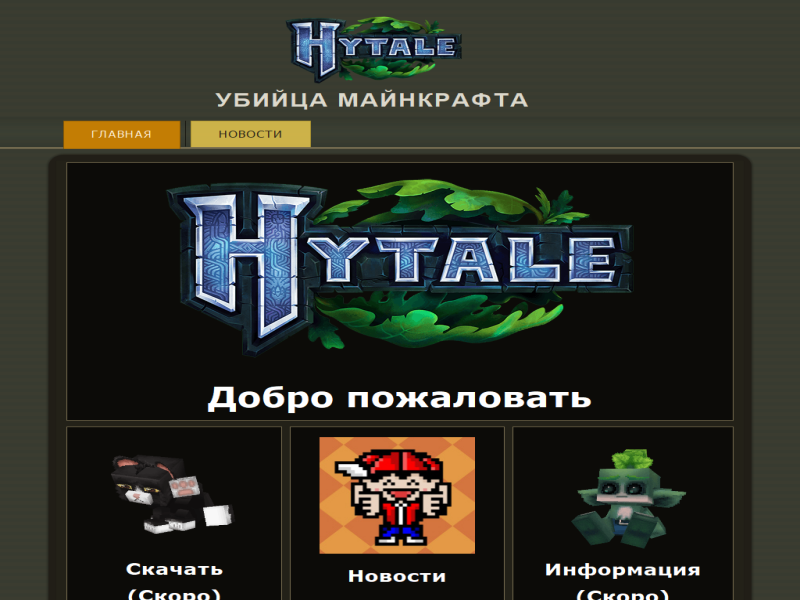
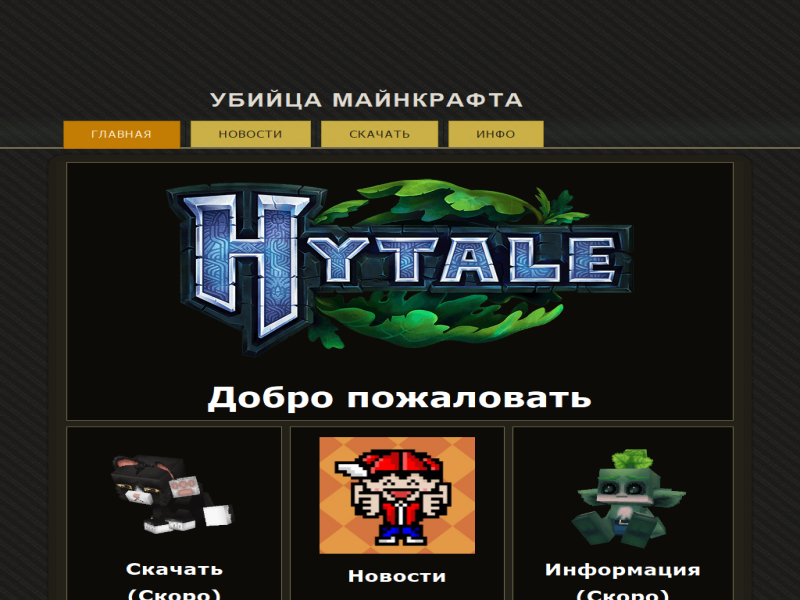
Обновление сайта

Changed region(s): [[0.0, 0.0, 1.0, 1.0]]

diff --git a/info.html b/info.html
@@ -1,0 +1,66 @@
+<!DOCTYPE html>
+<html dir="ltr" lang="en-US"><head><!-- Created by Artisteer v4.3.0.60858 -->
+    <meta charset="utf-8">
+    <title>инфо</title>
+    <meta name="viewport" content="initial-scale = 1.0, maximum-scale = 1.0, user-scalable = no, width = device-width">
+
+    <!--[if lt IE 9]><script src="https://html5shiv.googlecode.com/svn/trunk/html5.js"></script><![endif]-->
+    <link rel="stylesheet" href="style.css" media="screen">
+    <!--[if lte IE 7]><link rel="stylesheet" href="style.ie7.css" media="screen" /><![endif]-->
+    <link rel="stylesheet" href="style.responsive.css" media="all">
+
+
+    <script src="jquery.js"></script>
+    <script src="script.js"></script>
+    <script src="script.responsive.js"></script>
+
+
+</head>
+<body>
+<div id="art-main">
+<header class="art-header">
+
+    <div class="art-shapes">
+        <div class="art-object2016862673"></div>
+<div class="art-object777328212"></div>
+
+            </div>
+
+<h1 class="art-headline">
+    <a href="/">Убийца майнкрафта</a>
+</h1>
+
+
+
+
+
+                        
+                    
+</header>
+<nav class="art-nav">
+    <div class="art-nav-inner">
+    <ul class="art-hmenu"><li><a href="index.html" class="">Главная</a></li><li><a href="news.html" class="">Новости</a></li><li><a href="down.html" class="">Скачать</a></li><li><a href="info.html" class="active">Инфо</a></li></ul> 
+        </div>
+    </nav>
+<div class="art-sheet clearfix">
+            <div class="art-layout-wrapper">
+                <div class="art-content-layout">
+                    <div class="art-content-layout-row">
+                        <div class="art-layout-cell art-content"><article class="art-post art-article">
+                                
+                                                
+                <div class="art-postcontent art-postcontent-0 clearfix"><p><br></p></div>
+
+
+</article></div>
+                    </div>
+                </div>
+            </div><footer class="art-footer">
+<p>Copyright © 2019. All Rights Reserved.<br></p>
+</footer>
+
+    </div>
+</div>
+
+
+</body></html>

diff --git a/down.html b/down.html
@@ -1,0 +1,66 @@
+<!DOCTYPE html>
+<html dir="ltr" lang="en-US"><head><!-- Created by Artisteer v4.3.0.60858 -->
+    <meta charset="utf-8">
+    <title>Скачать</title>
+    <meta name="viewport" content="initial-scale = 1.0, maximum-scale = 1.0, user-scalable = no, width = device-width">
+
+    <!--[if lt IE 9]><script src="https://html5shiv.googlecode.com/svn/trunk/html5.js"></script><![endif]-->
+    <link rel="stylesheet" href="style.css" media="screen">
+    <!--[if lte IE 7]><link rel="stylesheet" href="style.ie7.css" media="screen" /><![endif]-->
+    <link rel="stylesheet" href="style.responsive.css" media="all">
+
+
+    <script src="jquery.js"></script>
+    <script src="script.js"></script>
+    <script src="script.responsive.js"></script>
+
+
+</head>
+<body>
+<div id="art-main">
+<header class="art-header">
+
+    <div class="art-shapes">
+        <div class="art-object2016862673"></div>
+<div class="art-object777328212"></div>
+
+            </div>
+
+<h1 class="art-headline">
+    <a href="/">Убийца майнкрафта</a>
+</h1>
+
+
+
+
+
+                        
+                    
+</header>
+<nav class="art-nav">
+    <div class="art-nav-inner">
+    <ul class="art-hmenu"><li><a href="index.html" class="">Главная</a></li><li><a href="news.html" class="">Новости</a></li><li><a href="down.html" class="active">Скачать</a></li><li><a href="info.html">Инфо</a></li></ul> 
+        </div>
+    </nav>
+<div class="art-sheet clearfix">
+            <div class="art-layout-wrapper">
+                <div class="art-content-layout">
+                    <div class="art-content-layout-row">
+                        <div class="art-layout-cell art-content"><article class="art-post art-article">
+                                
+                                                
+                <div class="art-postcontent art-postcontent-0 clearfix"><p><br></p></div>
+
+
+</article></div>
+                    </div>
+                </div>
+            </div><footer class="art-footer">
+<p>Copyright © 2019. All Rights Reserved.<br></p>
+</footer>
+
+    </div>
+</div>
+
+
+</body></html>

diff --git a/style.css b/style.css
@@ -2,7 +2,7 @@
 
 #art-main
 {
-   background: #323A31 url('images/page.png') fixed;
+   background: #1C1C1C url('images/page.png') fixed;
    margin:0 auto;
    font-size: 13px;
    font-family: Tahoma, Arial, Helvetica, Sans-Serif;
@@ -408,7 +408,25 @@ li p, .art-postcontent li p, .art-blockcontent li p
    margin-right: 0 !important;
 }
 
-.art-object777328212
+.art-object2016862673
+{
+    display: block;
+    left: 0%;
+    margin-left: -90px;
+    position: absolute;
+    top: -76px;
+    width: 1081px;
+    height: 353px;
+    background-image: url('images/object2016862673.png');
+    background-position: 0 0;
+    background-repeat: no-repeat;
+    z-index: 2;
+}
+
+.default-responsive .art-object2016862673
+{
+  display: none;
+}.art-object777328212
 {
     display: block;
     left: 45.25%;
@@ -420,7 +438,7 @@ li p, .art-postcontent li p, .art-blockcontent li p
     background-image: url('images/object777328212.png');
     background-position: 0 0;
     background-repeat: no-repeat;
-    z-index: 2;
+    z-index: 3;
 }
 
 .default-responsive .art-object777328212
@@ -459,7 +477,7 @@ text-transform: uppercase;
 text-align: left;
   padding: 0;
   margin: 0;
-  color: #DCD8CB !important;
+  color: #E0DCD1 !important;
   white-space: nowrap;
 }
 
@@ -698,7 +716,7 @@ ul.art-hmenu>li>a:hover, .desktop ul.art-hmenu>li:hover>a
 }
 ul.art-hmenu>li>a:hover, 
 .desktop ul.art-hmenu>li:hover>a {
-   color: #F1EFEA;
+   color: #EDEAE3;
    text-decoration: none;
 }
 ul.art-hmenu>li>a.active:hover {
@@ -2702,7 +2720,7 @@ blockquote p,
    font-style: normal;
    font-weight: normal;
    text-decoration: underline;
-   color: #FCCC78;
+   color: #FCC464;
 }
 
 .art-page-footer
@@ -2712,7 +2730,7 @@ blockquote p,
    padding: 1em;
    text-align: center !important;
    text-decoration: none;
-   color: #C8C1AC;
+   color: #C0B7A0;
 }
 
 .art-lightbox-wrapper 

diff --git a/script.js b/script.js
@@ -1244,6 +1244,22 @@ if (typeof window.resizeData === 'undefined') window.resizeData = {};
 window.resizeData.headerPageWidth = true;
 if (typeof window.defaultResponsiveData === 'undefined') window.defaultResponsiveData = [false, true, true, true, true, ];
 
+resizeData['object2016862673'] = {
+   responsive: [
+                  { left: -0.08, top: -0.22, visible: true }, 
+                  { left: -0.08, top: -0.22, visible: true }, 
+                  { left: -0.08, top: -0.22, visible: true }, 
+                  { left: -0.08, top: -0.22, visible: true }, 
+                  { left: -0.08, top: -0.22, visible: true }, 
+               ],
+   area: {
+       x: 0,
+       y: 0
+   },
+   width: 1081,
+   height: 353,
+   autoWidth: false};
+
 resizeData['object777328212'] = {
    responsive: [
                   { left: 0.45, top: 0.32, visible: true }, 

diff --git a/Blog Posts/добро-пожаловать.html b/Blog Posts/добро-пожаловать.html
@@ -21,7 +21,8 @@
 <header class="art-header">
 
     <div class="art-shapes">
-        <div class="art-object777328212"></div>
+        <div class="art-object2016862673"></div>
+<div class="art-object777328212"></div>
 
             </div>
 
@@ -38,7 +39,7 @@
 </header>
 <nav class="art-nav">
     <div class="art-nav-inner">
-    <ul class="art-hmenu"><li><a href="../index.html" class="">Главная</a></li><li><a href="../news.html" class="">Новости</a></li></ul> 
+    <ul class="art-hmenu"><li><a href="../index.html" class="">Главная</a></li><li><a href="../news.html" class="">Новости</a></li><li><a href="../down.html" class="">Скачать</a></li><li><a href="../info.html" class="">Инфо</a></li></ul> 
         </div>
     </nav>
 <div class="art-sheet clearfix">

diff --git a/news.html b/news.html
@@ -21,7 +21,8 @@
 <header class="art-header">
 
     <div class="art-shapes">
-        <div class="art-object777328212"></div>
+        <div class="art-object2016862673"></div>
+<div class="art-object777328212"></div>
 
             </div>
 
@@ -38,7 +39,7 @@
 </header>
 <nav class="art-nav">
     <div class="art-nav-inner">
-    <ul class="art-hmenu"><li><a href="index.html" class="">Главная</a></li><li><a href="news.html" class="active">Новости</a></li></ul> 
+    <ul class="art-hmenu"><li><a href="index.html" class="">Главная</a></li><li><a href="news.html" class="active">Новости</a></li><li><a href="down.html">Скачать</a></li><li><a href="info.html">Инфо</a></li></ul> 
         </div>
     </nav>
 <div class="art-sheet clearfix">

diff --git a/index.html b/index.html
@@ -27,7 +27,8 @@
 <header class="art-header">
 
     <div class="art-shapes">
-        <div class="art-object777328212"></div>
+        <div class="art-object2016862673"></div>
+<div class="art-object777328212"></div>
 
             </div>
 
@@ -44,7 +45,7 @@
 </header>
 <nav class="art-nav">
     <div class="art-nav-inner">
-    <ul class="art-hmenu"><li><a href="index.html" class="active">Главная</a></li><li><a href="news.html">Новости</a></li></ul> 
+    <ul class="art-hmenu"><li><a href="index.html" class="active">Главная</a></li><li><a href="news.html">Новости</a></li><li><a href="down.html">Скачать</a></li><li><a href="info.html">Инфо</a></li></ul> 
         </div>
     </nav>
 <div class="art-sheet clearfix">
